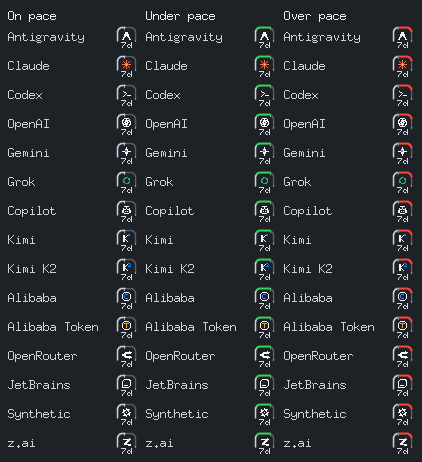
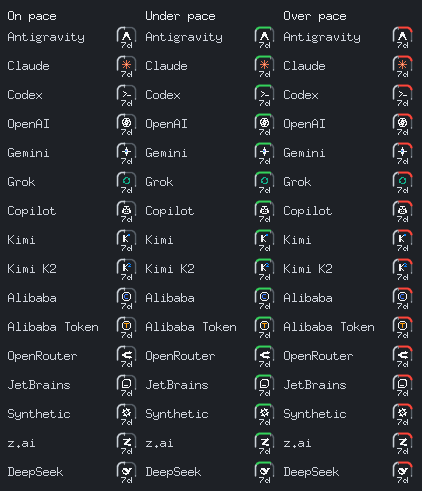
fix(deepseek): harden balance validation and credential precedence
Reject non-finite/negative/duplicate currency balances, sort balances
deterministically for stable UI ordering, and add tests proving
env-name credential exclusivity and empty-array vs missing-key
balance_infos handling.

diff --git a/internal/provider/deepseek/deepseek_test.go b/internal/provider/deepseek/deepseek_test.go
@@ -34,7 +34,7 @@ func TestFetchUsageContractAndBalanceSemantics(t *testing.T) {
 		if got := r.Header.Get("Accept"); got != "application/json" {
 			t.Errorf("accept = %q", got)
 		}
-		_, _ = w.Write([]byte(`{"is_available":true,"balance_infos":[{"currency":"USD","total_balance":"12.50","granted_balance":"2","topped_up_balance":"10.5"},{"currency":"CNY","total_balance":"0","granted_balance":"0","topped_up_balance":"0"}]}`))
+		_, _ = w.Write([]byte(`{"is_available":true,"balance_infos":[{"currency":"USD","total_balance":"12.50","granted_balance":"2","topped_up_balance":"10.5"},{"currency":"CNY","total_balance":"5","granted_balance":"0","topped_up_balance":"5"}]}`))
 	}))
 	defer srv.Close()
 	p := New(config.ProviderConfig{APIKey: "configured"})
@@ -44,12 +44,80 @@ func TestFetchUsageContractAndBalanceSemantics(t *testing.T) {
 	if err != nil {
 		t.Fatal(err)
 	}
-	if len(data.Balances) != 2 || data.Balances[0].Name != "usd" || data.Balances[0].DisplayName != "USD balance" || data.Balances[0].Remaining != 12.5 {
+	// Balances are sorted by currency code regardless of API response order.
+	if len(data.Balances) != 2 || data.Balances[0].Name != "cny" || data.Balances[1].Name != "usd" || data.Balances[1].DisplayName != "USD balance" || data.Balances[1].Remaining != 12.5 {
 		t.Fatalf("balances = %#v", data.Balances)
 	}
 	if data.Balances[0].Total != 0 || data.Balances[0].Used != 0 || data.Windows != nil {
 		t.Fatalf("invented usage data: %#v", data)
 	}
+}
+
+func TestFetchUsageRejectsNonFiniteAndDuplicateCurrencies(t *testing.T) {
+	for name, body := range map[string]string{
+		"nan":       `{"is_available":true,"balance_infos":[{"currency":"USD","total_balance":"NaN"}]}`,
+		"inf":       `{"is_available":true,"balance_infos":[{"currency":"USD","total_balance":"Inf"}]}`,
+		"neg-inf":   `{"is_available":true,"balance_infos":[{"currency":"USD","total_balance":"-Inf"}]}`,
+		"duplicate": `{"is_available":true,"balance_infos":[{"currency":"USD","total_balance":"1"},{"currency":"usd","total_balance":"2"}]}`,
+	} {
+		t.Run(name, func(t *testing.T) {
+			srv := httptest.NewServer(http.HandlerFunc(func(w http.ResponseWriter, r *http.Request) { _, _ = w.Write([]byte(body)) }))
+			defer srv.Close()
+			p := New(config.ProviderConfig{APIKey: "key"})
+			p.balanceURL, p.client = srv.URL, srv.Client()
+			if _, err := p.FetchUsage(context.Background()); err == nil {
+				t.Fatalf("body %q accepted", body)
+			}
+		})
+	}
+}
+
+func TestFetchUsageAcceptsEmptyBalanceInfosArray(t *testing.T) {
+	// A present-but-empty "balance_infos": [] differs from an absent/null key
+	// (which unmarshals to nil and is rejected). An account with genuinely no
+	// balances should not be treated as a malformed response.
+	srv := httptest.NewServer(http.HandlerFunc(func(w http.ResponseWriter, r *http.Request) {
+		_, _ = w.Write([]byte(`{"is_available":true,"balance_infos":[]}`))
+	}))
+	defer srv.Close()
+	p := New(config.ProviderConfig{APIKey: "key"})
+	p.balanceURL, p.client = srv.URL, srv.Client()
+	data, err := p.FetchUsage(context.Background())
+	if err != nil {
+		t.Fatalf("empty balance_infos array rejected: %v", err)
+	}
+	if len(data.Balances) != 0 {
+		t.Fatalf("balances = %#v", data.Balances)
+	}
+}
+
+func TestCredentialPrecedence(t *testing.T) {
+	t.Run("cfg APIKey used when no resolver and no ambient env", func(t *testing.T) {
+		p := New(config.ProviderConfig{APIKey: "cfg-key"})
+		if p.apiKey() != "cfg-key" {
+			t.Fatalf("apiKey = %q", p.apiKey())
+		}
+	})
+	t.Run("resolver takes over entirely for default DEEPSEEK_API_KEY lookup", func(t *testing.T) {
+		t.Setenv("DEEPSEEK_API_KEY", "ambient-should-not-be-used")
+		p := New(config.ProviderConfig{})
+		p.SetSessionEnvironmentResolver(resolver{})
+		if got := p.apiKey(); got != "" {
+			t.Fatalf("apiKey = %q, want empty (resolver returned nothing, ambient os.Getenv must not be consulted)", got)
+		}
+	})
+	t.Run("env-name source never falls back to cfg.APIKey or ambient DEEPSEEK_API_KEY", func(t *testing.T) {
+		t.Setenv("DEEPSEEK_API_KEY", "ambient-should-not-be-used")
+		capability, _ := provider.SourceCapabilityOf(New(config.ProviderConfig{}))
+		p, err := capability.NewSource(config.ProviderConfig{APIKey: "cfg-should-not-be-used"}, config.SourceConfig{ID: "work", Credential: config.CredentialRef{Kind: "env-name", Ref: "DEEPSEEK_WORK_KEY"}})
+		if err != nil {
+			t.Fatal(err)
+		}
+		// DEEPSEEK_WORK_KEY is intentionally left unset.
+		if _, err := p.FetchUsage(context.Background()); err == nil || !strings.Contains(err.Error(), "no API key") {
+			t.Fatalf("expected no-API-key error, got %v", err)
+		}
+	})
 }
 
 func TestFetchUsageStatusSemantics(t *testing.T) {

diff --git a/internal/provider/deepseek/deepseek.go b/internal/provider/deepseek/deepseek.go
@@ -6,9 +6,11 @@ import (
 	"encoding/json"
 	"fmt"
 	"io"
+	"math"
 	"net/http"
 	"os"
 	"regexp"
+	"sort"
 	"strconv"
 	"strings"
 	"time"
@@ -194,17 +196,24 @@ func (p *Provider) FetchUsage(ctx context.Context) (*provider.UsageData, error) 
 	if payload.BalanceInfos == nil {
 		return nil, fmt.Errorf("decode response: missing balance_infos")
 	}
+	seenCurrencies := make(map[string]bool, len(payload.BalanceInfos))
 	for _, balance := range payload.BalanceInfos {
 		currency := strings.TrimSpace(balance.Currency)
 		if currency == "" {
 			return nil, fmt.Errorf("decode response: empty currency")
 		}
+		normalized := strings.ToLower(currency)
+		if seenCurrencies[normalized] {
+			return nil, fmt.Errorf("decode response: duplicate currency %q", currency)
+		}
+		seenCurrencies[normalized] = true
 		total, err := strconv.ParseFloat(strings.TrimSpace(balance.TotalBalance), 64)
-		if err != nil || total < 0 {
+		if err != nil || math.IsNaN(total) || math.IsInf(total, 0) || total < 0 {
 			return nil, fmt.Errorf("decode response: invalid total balance for %q", currency)
 		}
-		data.Balances = append(data.Balances, provider.UsageBalance{Name: strings.ToLower(currency), DisplayName: strings.ToUpper(currency) + " balance", Remaining: total})
+		data.Balances = append(data.Balances, provider.UsageBalance{Name: normalized, DisplayName: strings.ToUpper(currency) + " balance", Remaining: total})
 	}
+	sort.SliceStable(data.Balances, func(i, j int) bool { return data.Balances[i].Name < data.Balances[j].Name })
 	if !payload.IsAvailable {
 		data.Warning = "DeepSeek balance endpoint reports the account is unavailable"
 	}

diff --git a/internal/tray/icons/frame.go b/internal/tray/icons/frame.go
@@ -85,6 +85,7 @@ var frameProviderAsset = map[string]string{
 	"jetbrains":     "jetbrains",
 	"synthetic":     "synthetic",
 	"zai":           "zai",
+	"deepseek":      "deepseek",
 }
 
 var frameGlyphs = map[rune][]string{
